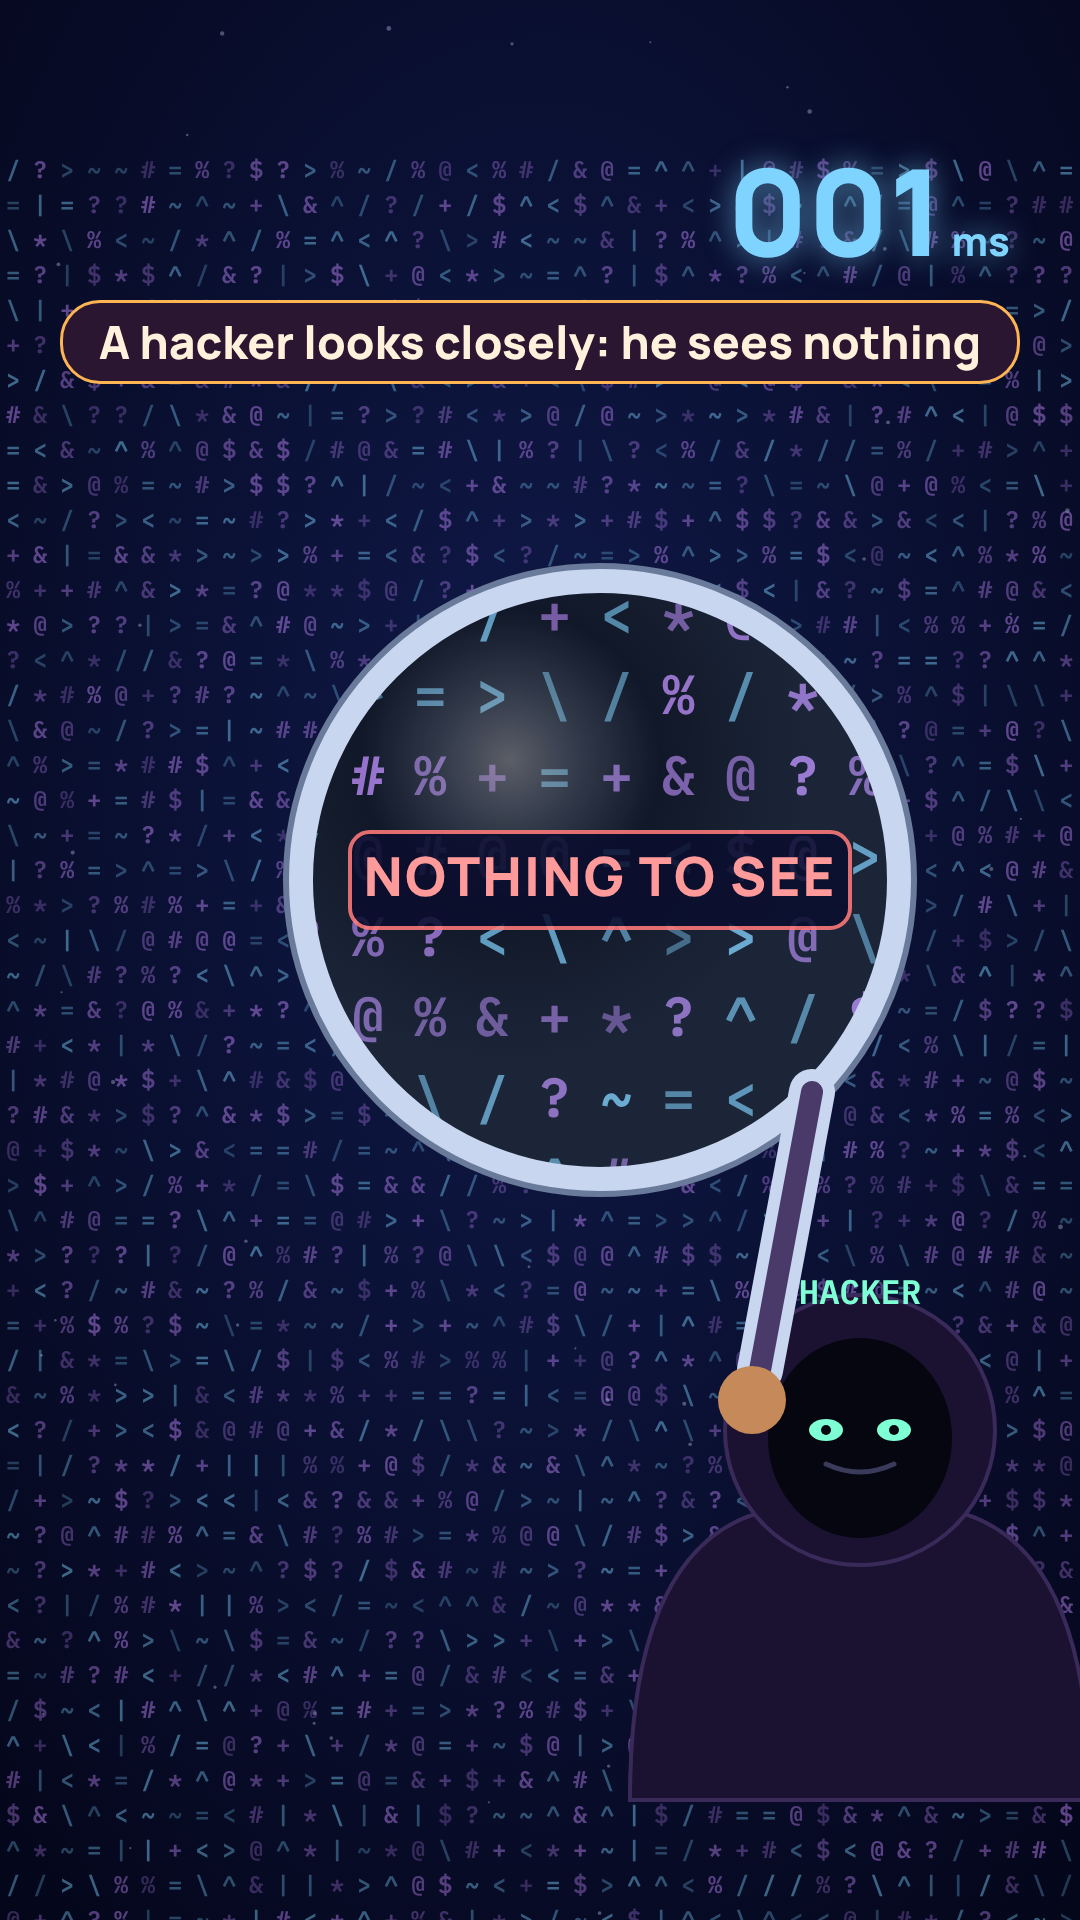
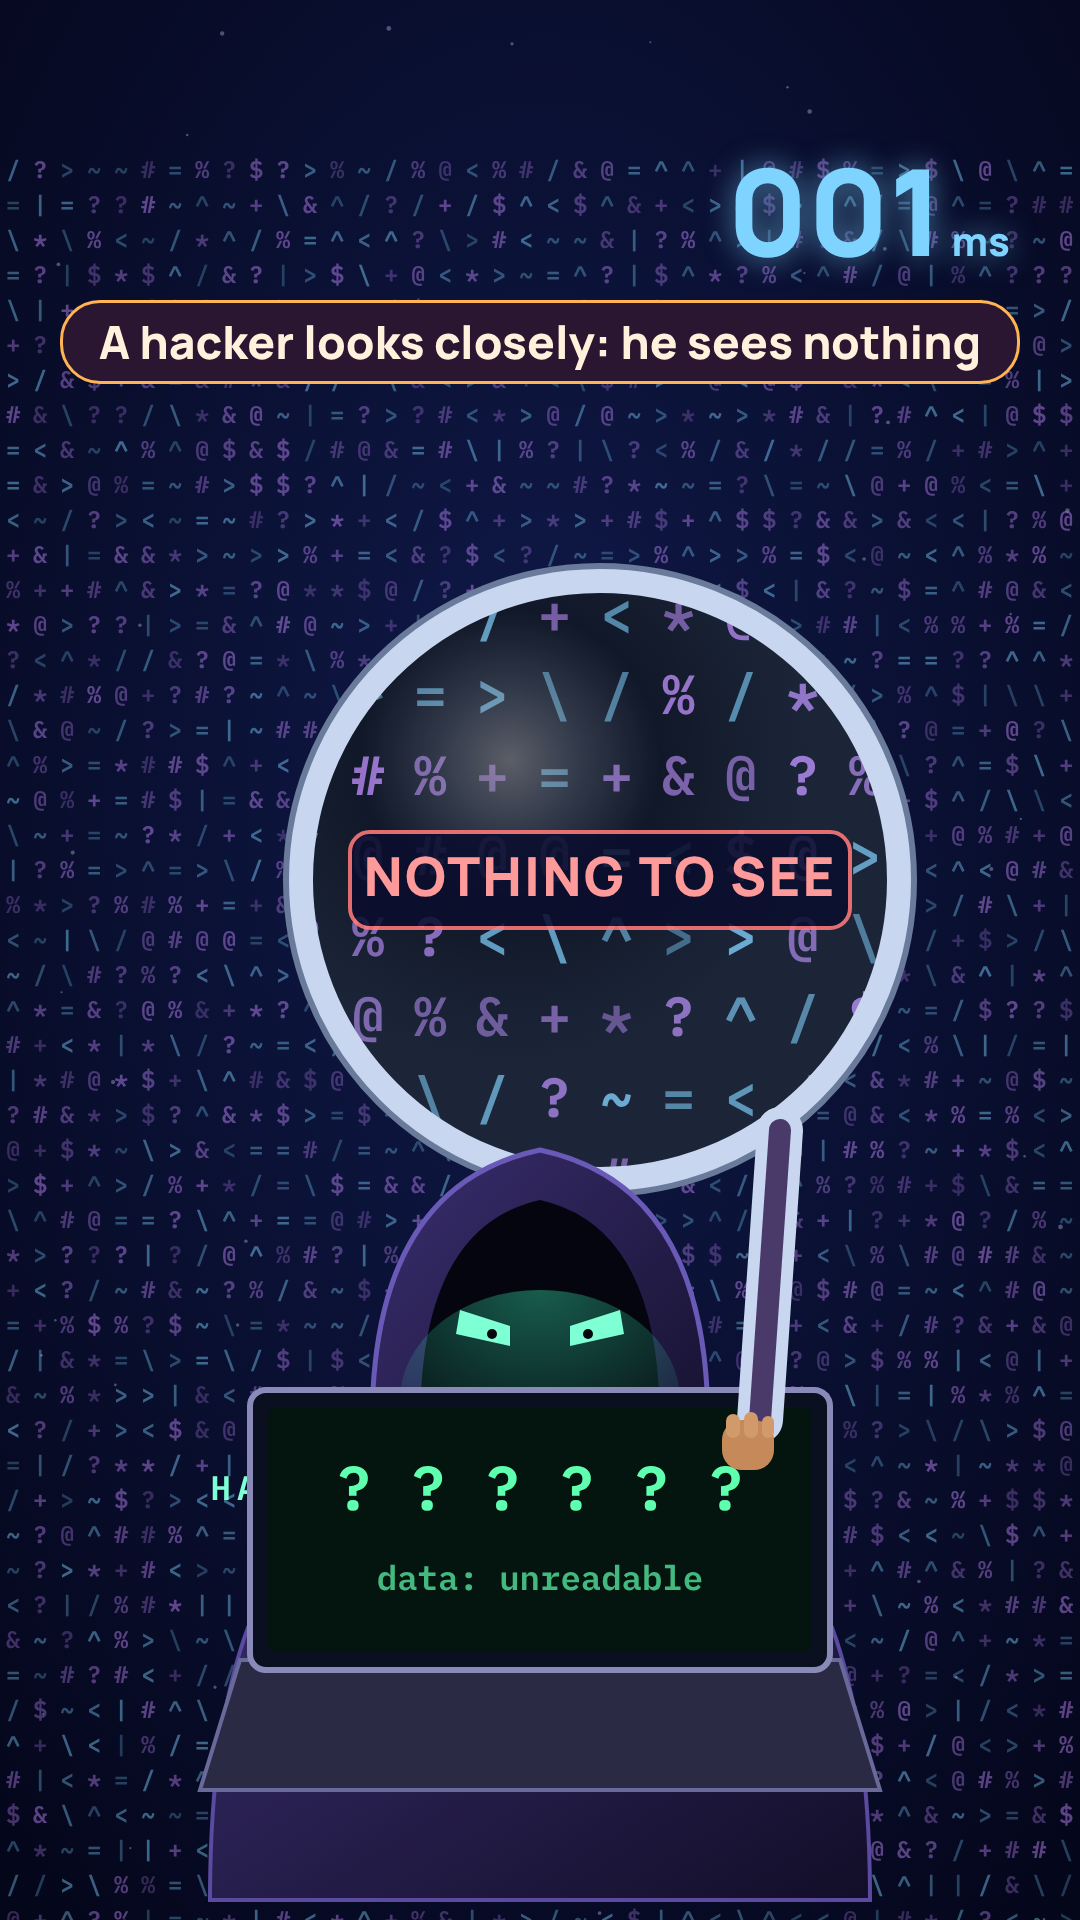
Encryption scene: better hacker with laptop (still)
Claude-Session: https://claude.ai/code/session_01GXcKc5WpkD8jhBf44cT6jS

Changed region(s): [[0.1833, 0.5625, 0.9778, 1.0], [0.9778, 0.8438, 1.0, 0.9375], [0.8556, 0.9062, 0.9472, 0.9375]]

diff --git a/internet/v3/src/v4/Encrypt.tsx b/internet/v3/src/v4/Encrypt.tsx
@@ -58,10 +58,18 @@ const Scene: React.FC<{ beat: number }> = ({ beat }) => {
         <circle cx={600} cy={880} r={300} fill="#050816" />
         <g clipPath="url(#lensClip)"><g transform="translate(600 880) scale(2.3) translate(-600 -880) translate(0 150)" opacity={0.95}><Grid scramble seed={9} /></g></g>
         <circle cx={600} cy={880} r={300} fill="url(#lensG)" /><circle cx={600} cy={880} r={300} fill="none" stroke="#c9d6f0" strokeWidth={26} /><circle cx={600} cy={880} r={314} fill="none" stroke="#6a7a9a" strokeWidth={6} />
-        <g transform="translate(860 1500)"><path d="M -230 300 Q -230 40 -90 10 L 90 10 Q 230 40 230 300 Z" fill="#1a1230" stroke="#3a2a5a" strokeWidth={4} /><circle cx={0} cy={-70} r={135} fill="#1a1230" stroke="#3a2a5a" strokeWidth={4} /><ellipse cx={0} cy={-62} rx={92} ry={100} fill="#05060f" />
-    <ellipse cx={-34} cy={-70} rx={17} ry={11} fill="#7fffd4" /><ellipse cx={34} cy={-70} rx={17} ry={11} fill="#7fffd4" /><circle cx={-34} cy={-70} r={5} fill="#05060f" /><circle cx={34} cy={-70} r={5} fill="#05060f" /><path d="M -34 -36 Q 0 -20 34 -36" fill="none" stroke="#3a3a5a" strokeWidth={5} strokeLinecap="round" />
-    <text y={-196} textAnchor="middle" fill="#7fffd4" style={{ font: `800 34px ${FONT.mono}` }}>HACKER</text></g>
-        <line x1={812} y1={1092} x2={760} y2={1370} stroke="#c9d6f0" strokeWidth={46} strokeLinecap="round" /><line x1={812} y1={1092} x2={760} y2={1370} stroke="#4a3a6a" strokeWidth={22} strokeLinecap="round" /><circle cx={752} cy={1400} r={34} fill="#c68a5a" />
+        <defs><linearGradient id="hood" x1="0" y1="0" x2="1" y2="1"><stop offset="0" stopColor="#3a2e70" /><stop offset="1" stopColor="#120e28" /></linearGradient><radialGradient id="scr" cx="50%" cy="0%" r="90%"><stop offset="0" stopColor="#3dffc0" stopOpacity={0.35} /><stop offset="1" stopColor="#3dffc0" stopOpacity={0} /></radialGradient></defs>
+        <g transform="translate(540 1340)">
+          <path d="M -330 560 Q -330 190 -150 140 L 150 140 Q 330 190 330 560 Z" fill="url(#hood)" stroke="#5a4aa0" strokeWidth={4} />
+          <path d="M -150 140 Q 0 260 150 140" fill="none" stroke="#0b0820" strokeWidth={10} opacity={0.6} /><line x1={-50} y1={230} x2={-56} y2={330} stroke="#cfd6ff" strokeWidth={6} strokeLinecap="round" /><line x1={50} y1={230} x2={56} y2={330} stroke="#cfd6ff" strokeWidth={6} strokeLinecap="round" />
+          <path d="M -165 150 Q -190 -150 0 -190 Q 190 -150 165 150 Q 0 230 -165 150 Z" fill="url(#hood)" stroke="#6a5ab8" strokeWidth={5} />
+          <path d="M -118 130 Q -134 -110 0 -140 Q 134 -110 118 130 Q 0 190 -118 130 Z" fill="#04050e" />
+          <ellipse cx={0} cy={60} rx={140} ry={110} fill="url(#scr)" />
+          <path d="M -80 -30 L -30 -14 L -30 6 L -84 -6 Z" fill="#7fffd4" /><path d="M 80 -30 L 30 -14 L 30 6 L 84 -6 Z" fill="#7fffd4" /><circle cx={-48} cy={-6} r={5} fill="#04050e" /><circle cx={48} cy={-6} r={5} fill="#04050e" />
+          <text x={-250} y={160} textAnchor="middle" fill="#7fffd4" style={{ font: `800 34px ${FONT.mono}`, letterSpacing: '0.18em' }}>HACKER</text></g>
+        <g transform="translate(540 1640)"><path d="M -300 20 L 300 20 L 340 150 L -340 150 Z" fill="#2a2a44" stroke="#6a6a9a" strokeWidth={4} /><rect x={-290} y={-250} width={580} height={280} rx={16} fill="#0a1020" stroke="#8a8ab8" strokeWidth={6} />
+          <rect x={-272} y={-232} width={544} height={244} rx={8} fill="#04140f" /><text y={-130} textAnchor="middle" fill="#5fffb0" style={{ font: `800 62px ${FONT.mono}` }}>? ? ? ? ? ?</text><text y={-50} textAnchor="middle" fill="#5fffb0" opacity={0.7} style={{ font: `700 34px ${FONT.mono}` }}>data: unreadable</text><rect x={-190} y={-20} width={380} height={22} rx={4} fill="#ff5a5a" opacity={0.0} /></g>
+        <line x1={780} y1={1130} x2={760} y2={1420} stroke="#c9d6f0" strokeWidth={46} strokeLinecap="round" /><line x1={780} y1={1130} x2={760} y2={1420} stroke="#4a3a6a" strokeWidth={22} strokeLinecap="round" /><g transform="translate(748 1440)"><rect x={-26} y={-20} width={52} height={50} rx={20} fill="#c68a5a" /><rect x={-22} y={-26} width={14} height={24} rx={7} fill="#d29a6a" /><rect x={-4} y={-28} width={14} height={26} rx={7} fill="#d29a6a" /><rect x={14} y={-24} width={12} height={22} rx={6} fill="#d29a6a" /></g>
         <g transform="translate(600 880)"><rect x={-250} y={-48} width={500} height={96} rx={20} fill="#0b0f2e" opacity={0.88} stroke="#ff7a7a" strokeWidth={4} /><text y={16} textAnchor="middle" fill="#ff9a9a" style={{ font: `900 54px ${FONT.ui}`, letterSpacing: '0.04em' }}>NOTHING TO SEE</text></g></>}
       {beat === 6 && <g>{Array.from({ length: 130 }).map((_, k) => { const x = hash(k) * 1080, y = 160 + hash(k + 5) * 1500, w = 70 + hash(k + 9) * 130, h = w * 0.58, o = 0.35 + 0.65 * hash(k + 2); return <g key={k} transform={`translate(${x} ${y}) rotate(${(hash(k + 4) - 0.5) * 70})`} opacity={o} style={{ filter: 'drop-shadow(8px 10px 8px rgba(0,0,0,.5))' }}><rect x={-w / 2} y={-h / 2} width={w} height={h} rx={6} fill="url(#gp)" /><rect x={-w / 2} y={-h / 2} width={w} height={h * 0.28} rx={6} fill="#2a1630" opacity={0.85} /></g>; })}
         <defs><linearGradient id="gp" x1="0" y1="0" x2="0" y2="1"><stop offset="0" stopColor="#ffd38a" /><stop offset="1" stopColor="#e08a1e" /></linearGradient></defs></g>}
